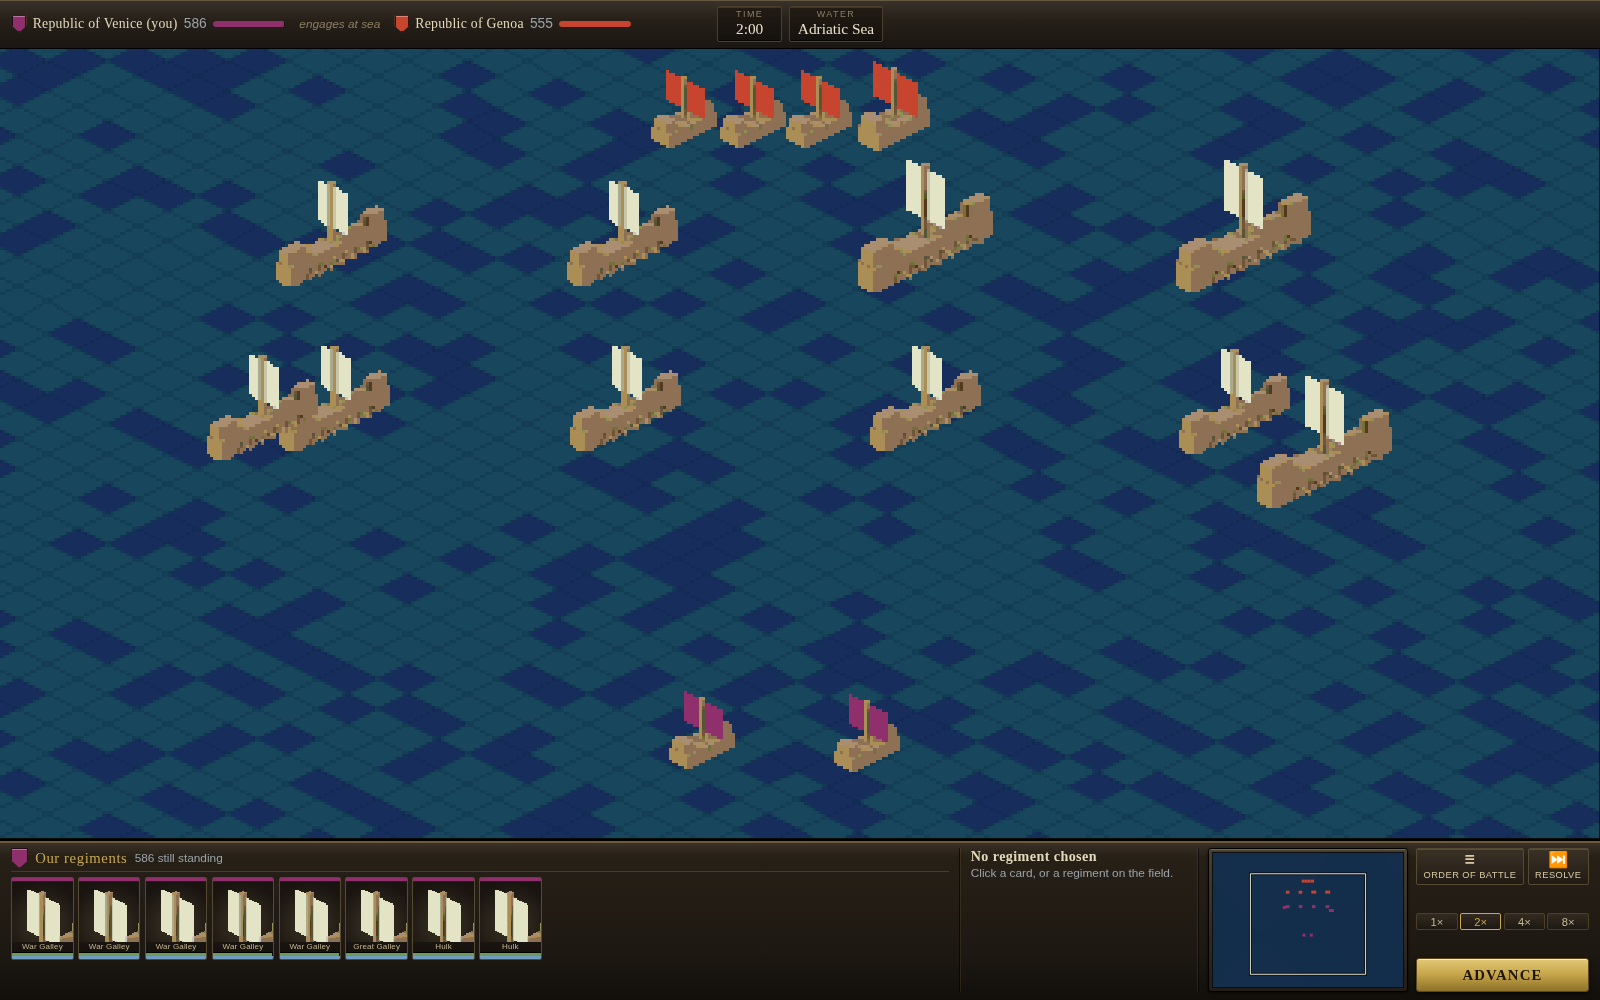
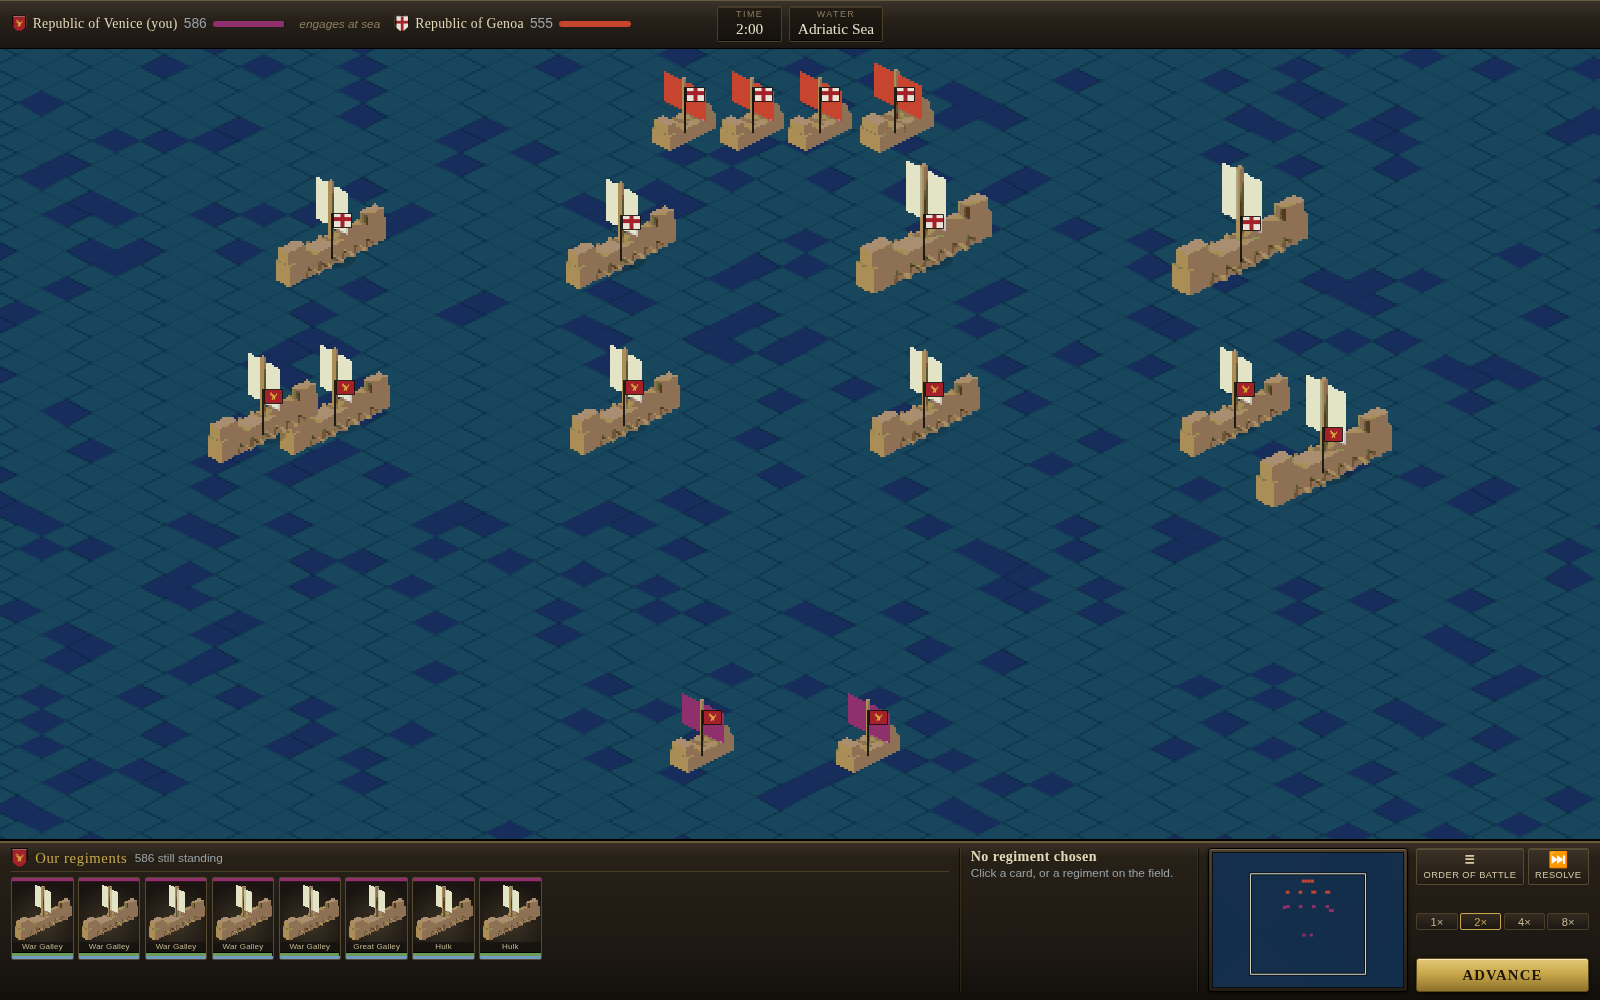
The screenshots, and what they are of

diff --git a/README.md b/README.md
@@ -82,13 +82,16 @@ fight at sea.
   | The shore | a shelf of pale water wherever the sea touches land, a strand of sand wherever the land touches sea, and the real Natural Earth coast drawn over the join |
   | Rivers | the great ones, drawn: the Rhine, the Danube, the Dnieper, the Volga, the Nile. A river is the strongest line in a landscape and the eye finds everything else from it |
   | Frontiers | chained into continuous runs before they are stroked, so a corner is a corner, and the whole lot drawn on its own plate and cut to the coastline — a border running across open water is the one thing that most gives away a map drawn from a diagram |
+  | Arms | every realm bears its own, drawn from a blazon rather than loaded from a folder of pictures: beside the name of every town it holds, on the banner over every army it has in the field, on its crest in the chrome, and on the wall of shields at the front of the game |
+  | Texture | each tile takes a handful of marks a shade either side of its own colour, in places fixed to its coordinates — six fills a tile, and the whole difference between ground you read and a chart you look at |
+  | Shadows | one dark ellipse under everything standing on the ground, which is what makes it stand there rather than float |
   | Ownership | a weak wash on the tile tops, a band of the owner's colour laid inside his own frontier, and his shield beside the name of every town he holds — because the first question anyone asks of a map like this is whose |
   | Settlements | sized against the zoom and not against the tile, so a town covers a fixed piece of ground: pull back and Verona is a mark on Italy rather than a model sitting on top of it |
   | Position | every sprite records where its own model stood, and is stamped by that point rather than by the middle of its frame — so a town lands on its coordinates and a spear leaning out of the frame does not move the settlement carrying it |
   | Armies | the man in command. An army with a general is a horseman with his standard planted beside him, one without is a captain on foot; either way what is standing in the province is a person, not a counter |
   | Sprites | one sheet; anything belonging to an owner is rendered in pure magenta and swapped for his colour, which is how one drawing serves seventy-three realms |
   | Battles | the same picture at the scale of one field — pulled back a regiment is a body of men under a standard, closed in it is the men themselves in their ranks and files |
-  | Names | drawn afterwards at the screen's own resolution, because a place name in six-pixel type is not a style, it is unreadable |
+  | Names | drawn afterwards at the screen's own resolution, because a place name in six-pixel type is not a style, it is unreadable — and on the town it belongs to, which means the town is stamped at its own coordinates rather than at the middle of whichever tile it fell in |
 
 - **An interface of stone and parchment.** A plaque along the top for the realm,
   the calendar and the treasury; a band along the bottom for the men and the
@@ -121,13 +124,18 @@ fight at sea.
   rivers are zones too, because the Nile, the Danube, the Dnieper, the Volga and
   the Rhine carried more medieval traffic than most coastlines.
 
-- **Every man, on both screens.** The figures are modelled and rendered the
+- **Every man, and the right man.** The figures are modelled and rendered the
   same way the towns are: legs apart, a torso in his lord's colours, arms, a
-  helmet, a shield and a spear — a dozen boxes where it used to be four, which
-  at the size a battle draws him is the difference between a man and a domino.
+  helmet, and whatever he is actually carrying. A spearman has a spear and a
+  shield, a pikeman a pike twice his height, an archer a stave and a quiver and
+  no shield at all, a crossbowman his bow held level across the chest, a knight
+  a barded horse and a couched lance with a pennon on it. The simulation always
+  knew which of them a regiment was made of; now so does the picture.
+
   A regiment is the men in it at every zoom the camera will give you, in ranks,
-  each rank offset by a share of his own height so the ranks read as ranks; and
-  the camera goes close enough that every man in the line is a man.
+  each rank offset by a share of his own height so the ranks read as ranks. Over
+  each one stands its realm's banner, in its real arms, because that is what a
+  medieval battlefield was read by. Behind each one lie its dead, a mark a man.
 
   <div align="center">
   <img src="docs/screenshots/battle.png" alt="A French line and an Imperial one, every man drawn" width="860" />

diff --git a/docs/design.md b/docs/design.md
@@ -398,6 +398,30 @@ polygon floating over the sea. Fifteen harbours — Venice on its lagoon, Split
 under its mountain — fall just outside a coastline simplified this far, so the
 clip region is the land together with a small disc around every settlement.
 
+**Arms are a blazon, not a picture.** Seventy-three realms, each with its own
+device, in about three dozen bytes apiece: a field, sometimes divided,
+sometimes with an ordinary laid over it, and usually a charge on top. The
+renderer turns that into a shield or a banner at whatever size is asked for
+and keeps what it drew, so two hundred shields beside two hundred town names
+cost two hundred blits. They are historical where history is clear and
+plausible where it is not, and where two realms really did bear almost the
+same thing one of them is nudged, because a player has to tell them apart at
+sixteen pixels.
+
+**Two screen pixels to the picture pixel, not three.** Three made a tile
+unmistakably made of pixels and threw away more than half the detail the
+screen could carry — a town was twenty pixels of information blown up to
+sixty. At two there is room for grain in the ground, a shadow under what
+stands on it, and a shield on a man's arm, and the picture is still visibly
+pixels because the sprites are the same pixels, only more of them.
+
+**A thing is stamped where it stands, not where its tile is.** The sweep that
+paints the ground decides *when* something standing on it is drawn, which is
+what gets it in front of whatever is behind it. It used to decide *where* as
+well, and a tile at the zoom a continent is read at covers several
+kilometres: a town came out up to a tile from its own coordinates, and that
+far from its own name.
+
 **A sprite is framed on what is in it, and stamped by where it stood.** The
 tool fits the camera to the model's own bounds rather than to a radius the
 model reports, so no sprite spends most of its pixels on air, and it records
@@ -478,6 +502,16 @@ radar is not.
 the gradient of the height function lit from the north-west. Colouring by
 altitude makes a uniform rise invisible; lighting it from one side makes the
 shape of the land appear, which is the whole point of fighting on a ridge.
+
+**A regiment is the kind of men in it.** There is a figure per kind of
+soldier — spear, pike, sword, bow, crossbow, handgun, lance, light horse —
+built from the same dozen boxes with a different thing in the hand, and the
+thing in the hand is the whole of what tells one from another in a
+silhouette this size. Over each regiment stands its realm's banner in its own
+arms, which is what a medieval battlefield was actually read by, and behind it
+lie its dead: a mark a man, as many as it has lost. The simulation does not
+keep a body's position and does not need to — what the eye reads off a field
+is how much of it has been fought over, and that is the count.
 
 **A regiment is the men in it.** Ranks and files from the unit's own formation,
 as many figures as the block has room for, thinning from the back as it takes
